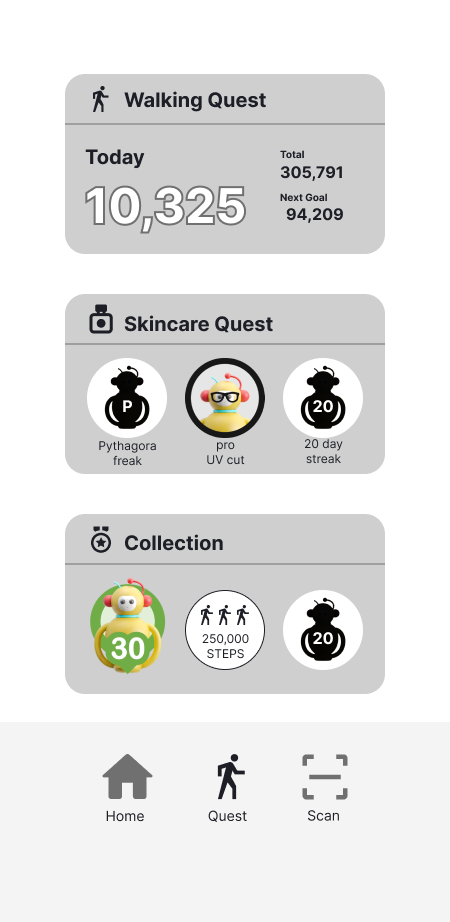
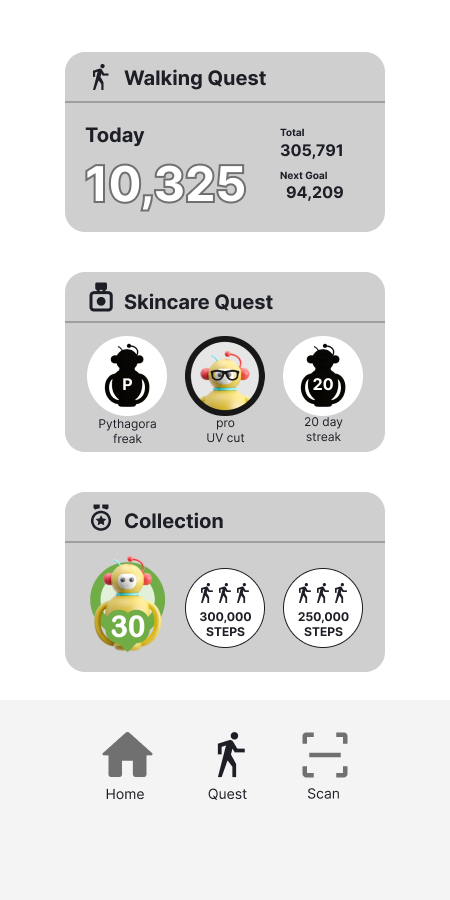
aizawa追加、pxずれ修正

diff --git a/src/app/components/LoginBonus/LoginBonus.tsx b/src/app/components/LoginBonus/LoginBonus.tsx
@@ -12,12 +12,12 @@ export default function LoginBonus() {
         router.push(`/quest1?token=${user_token}`);
     };
 
-    const [imageSrc, setImageSrc] = useState('/bonus.gif'); // 初期状態はアニメーションGIF
+    const [imageSrc, setImageSrc] = useState('/a_bonus.gif'); // 初期状態はアニメーションGIF
 
     useEffect(() => {
         const timer = setTimeout(() => {
-            setImageSrc('/walking_bonus.png'); // 1ループ後に静止画に切り替える
-        }, 5000);  // GIFの再生時間に応じて調整
+            setImageSrc('/a_walking_bonus.png'); // 1ループ後に静止画に切り替える
+        }, 7000);  // GIFの再生時間に応じて調整
 
         return () => clearTimeout(timer);
     }, []);
@@ -37,3 +37,44 @@ export default function LoginBonus() {
         </>
     );
 }
+
+
+// 'use client';
+// import { useRef, useEffect, useState } from 'react';
+// import { useRouter, useSearchParams } from 'next/navigation';
+
+// export default function LoginBonus() {
+//     const formRef = useRef<HTMLFormElement>(null);
+//     const user_token: string | null = useSearchParams().get("token");
+//     const router = useRouter();
+
+//     const handleSend = async (event: any) => {
+//         event.preventDefault();
+//         router.push(`/quest1?token=${user_token}`);
+//     };
+
+//     const [videoSrc, setVideoSrc] = useState('/a_bonus.mp4'); // 初期状態はアニメーションMP4
+
+//     useEffect(() => {
+//         const timer = setTimeout(() => {
+//             setVideoSrc('/a_walking_bonus.png'); // 1ループ後に静止画に切り替える
+//         }, 8000);  // MP4の再生時間に応じて調整
+
+//         return () => clearTimeout(timer);
+//     }, []);
+
+//     return (
+//         <>
+//             <div className="relative flex justify-center items-center mt-0 mb-0 sm:mx-auto sm:w-full sm:max-w-sm">
+//                 <video src={videoSrc} title="Home Screen Video" className="max-w-full h-auto" autoPlay loop muted>
+//                     Your browser does not support the video tag.
+//                 </video>
+//                 <form ref={formRef} onSubmit={handleSend} className="absolute inset-0 flex justify-center items-center">
+//                     <button type="submit" style={{background: 'transparent', border: 'none', position: 'absolute', top: '50%', left: '50%', transform: 'translate(-50%, -50%)'}}>
+//                     </button>
+//                 </form>
+//             </div>
+//         </>
+//     );
+// }
+

diff --git a/src/app/components/Home/Homepage2.tsx b/src/app/components/Home/Homepage2.tsx
@@ -18,7 +18,7 @@ export default function Homepage2() {
         <>
 
             <div className="relative flex justify-center items-center mt-0 mb-0 sm:mx-auto sm:w-full sm:max-w-sm">
-            <img src="/home.png" alt="Home Screen" className="max-w-full h-auto"/>
+            <img src="/a_home.png" alt="Home Screen" className="max-w-full h-auto"/>
             <form ref={formRef} onSubmit={handleSend} className="absolute inset-0 flex justify-center items-center">
                 <button type="submit" style={{background: 'transparent', border: 'none', position: 'absolute', top: '50%', left: '50%', transform: 'translate(-50%, -50%)'}}>
                 　

diff --git a/src/app/components/Home/Homepage.tsx b/src/app/components/Home/Homepage.tsx
@@ -18,7 +18,7 @@ export default function Homepage() {
         <>
 
             <div className="relative flex justify-center items-center mt-0 mb-0 sm:mx-auto sm:w-full sm:max-w-sm">
-            <img src="/home.png" alt="Home Screen" className="max-w-full h-auto"/>
+            <img src="/a_home.png" alt="Home Screen" className="max-w-full h-auto"/>
             <form ref={formRef} onSubmit={handleSend} className="absolute inset-0 flex justify-center items-center">
                 <button type="submit" style={{background: 'transparent', border: 'none', position: 'absolute', top: '50%', left: '50%', transform: 'translate(-50%, -50%)'}}>
                 　
